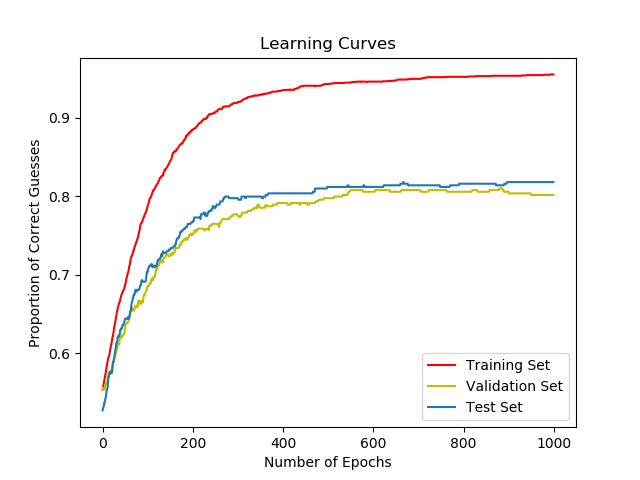
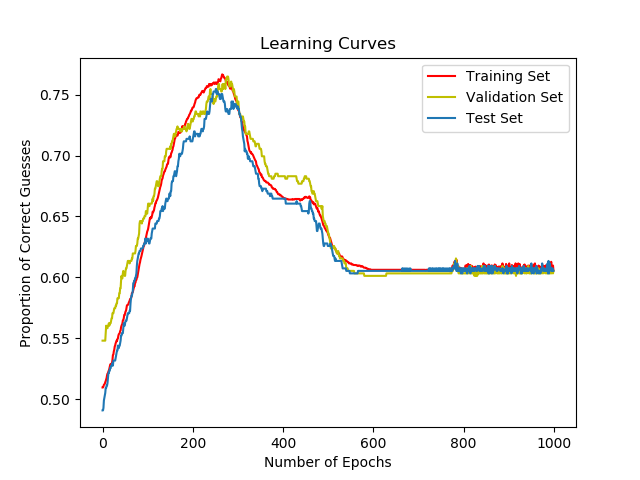
Add code for L2 optimization

diff --git a/fake.py b/fake.py
@@ -347,7 +347,7 @@ def plot_learning_curve(learning_data, filename="Part4LearningCurve"):
         plt.savefig(filename)
 
 
-def part4(real_training, fake_training, real_validation, fake_validation, real_test, fake_test, unique_words_dict):
+def part4(real_training, fake_training, real_validation, fake_validation, real_test, fake_test, unique_words_dict, reg_lambda=0):
     # 1 means real. 0 means fake.
     unique_words_number = len(unique_words_dict)
 
@@ -361,8 +361,9 @@ def part4(real_training, fake_training, real_validation, fake_validation, real_t
     # Hyper Parameters
     input_size = unique_words_number
     num_classes = 1
-    num_iters = 1000
+    num_iters = 650
     learning_rate = 0.0001
+    #reg_lambda = 0
 
     # model = LogisticRegression(input_size, num_classes)
     model = torch.nn.Sequential(
@@ -393,7 +394,10 @@ def part4(real_training, fake_training, real_validation, fake_validation, real_t
         y_pred = model(x_train)
         loss = loss_fn.forward(y_pred, y_train)
 
+        l2_reg = sum([W.norm(2) for W in model.parameters()])
+
         optimizer.zero_grad()
+        loss = loss_fn.forward(y_pred, y_train) + l2_reg * reg_lambda
 
         loss.backward()
         optimizer.step()
@@ -436,6 +440,20 @@ def part4(real_training, fake_training, real_validation, fake_validation, real_t
         'valid': performance_data_valid,
         'test': performance_data_test,
     }
+
+
+def optimL2_lambda(real_training, fake_training, real_validation, fake_validation, real_test, fake_test, unique_words_dict):
+    models = []
+    max_valid_perf = []
+    step = 0.02
+    for i in range(50):
+        reg_lambda = i * step
+        model, perf = part4(real_training, fake_training, real_validation, fake_validation, real_test, fake_test, unique_words_dict, reg_lambda)
+        models.append(model)
+        max_valid_perf.append(perf['valid'][-1])
+
+    max_perf = max(enumerate(max_valid_perf), key=lambda x: x[1])[0]
+    return models[max_perf], max_perf * step
 
 
 def part7(real_training, fake_training, real_validation, fake_validation, real_test, fake_test, unique_words_dict, max_depth):
@@ -527,7 +545,9 @@ if __name__ == '__main__':
     }
 
     model, performance_data = part4(real_training, fake_training, real_validation, fake_validation, real_test, fake_test, unique_words_dict)
-    plot_learning_curve(performance_data)
+    # plot_learning_curve(performance_data)
+
+    #model, l2_lambda = optimL2_lambda(real_training, fake_training, real_validation, fake_validation, real_test, fake_test, unique_words_dict)
 
 
     ############################## Part 7 ##############################
